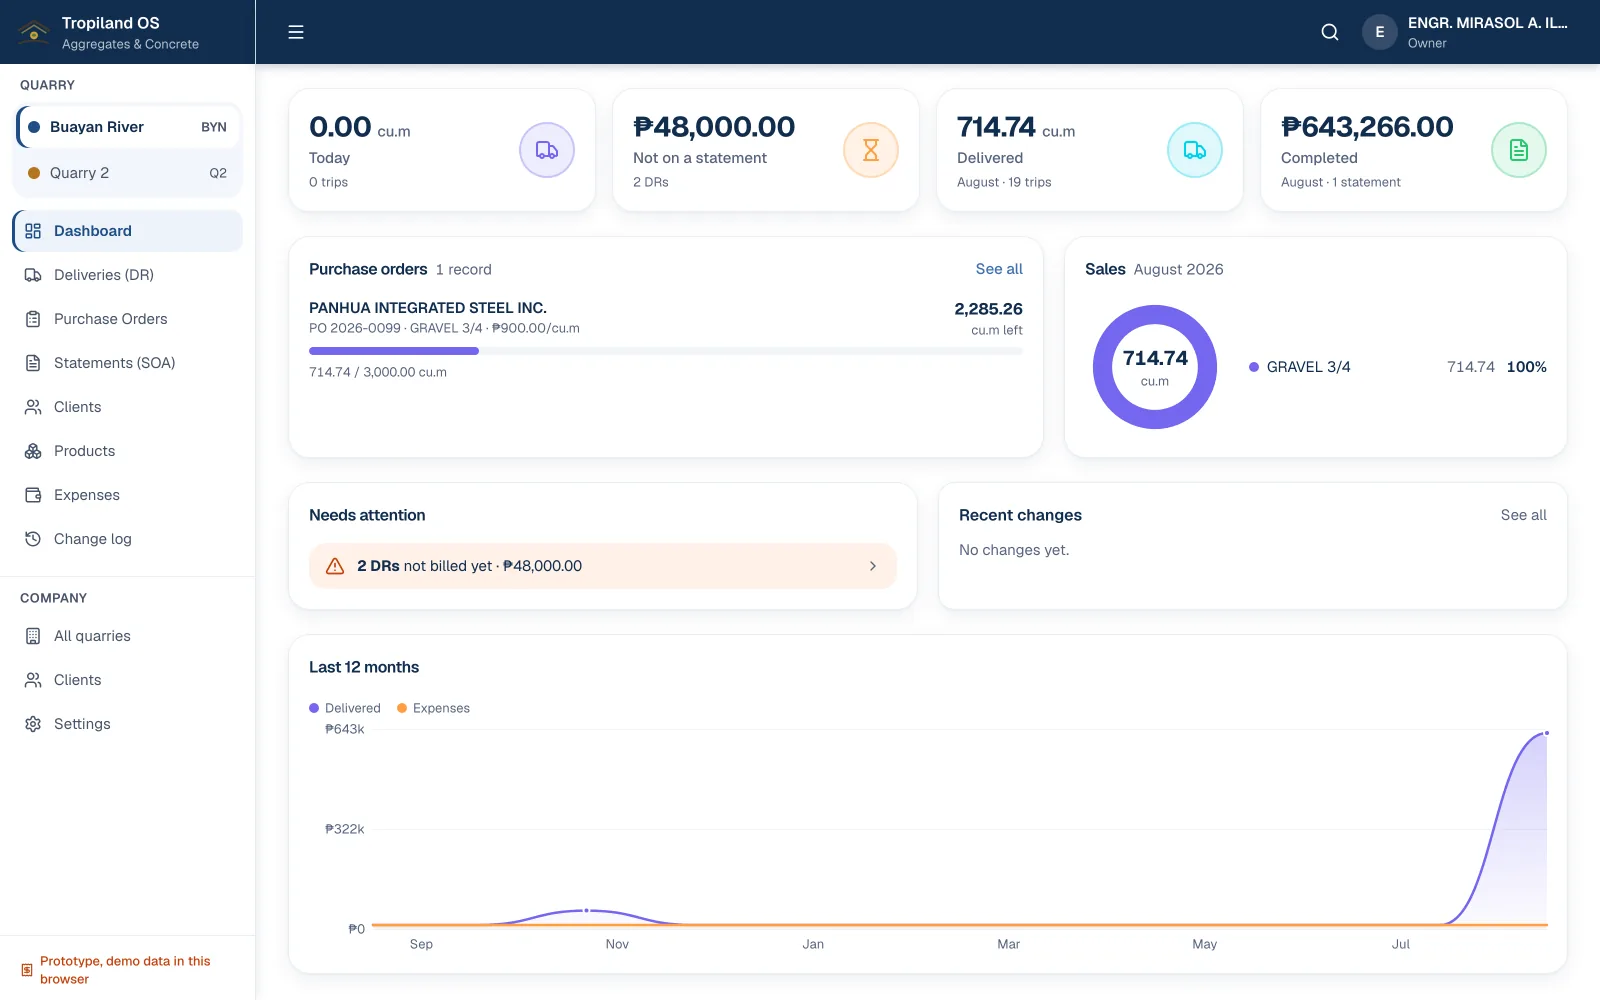
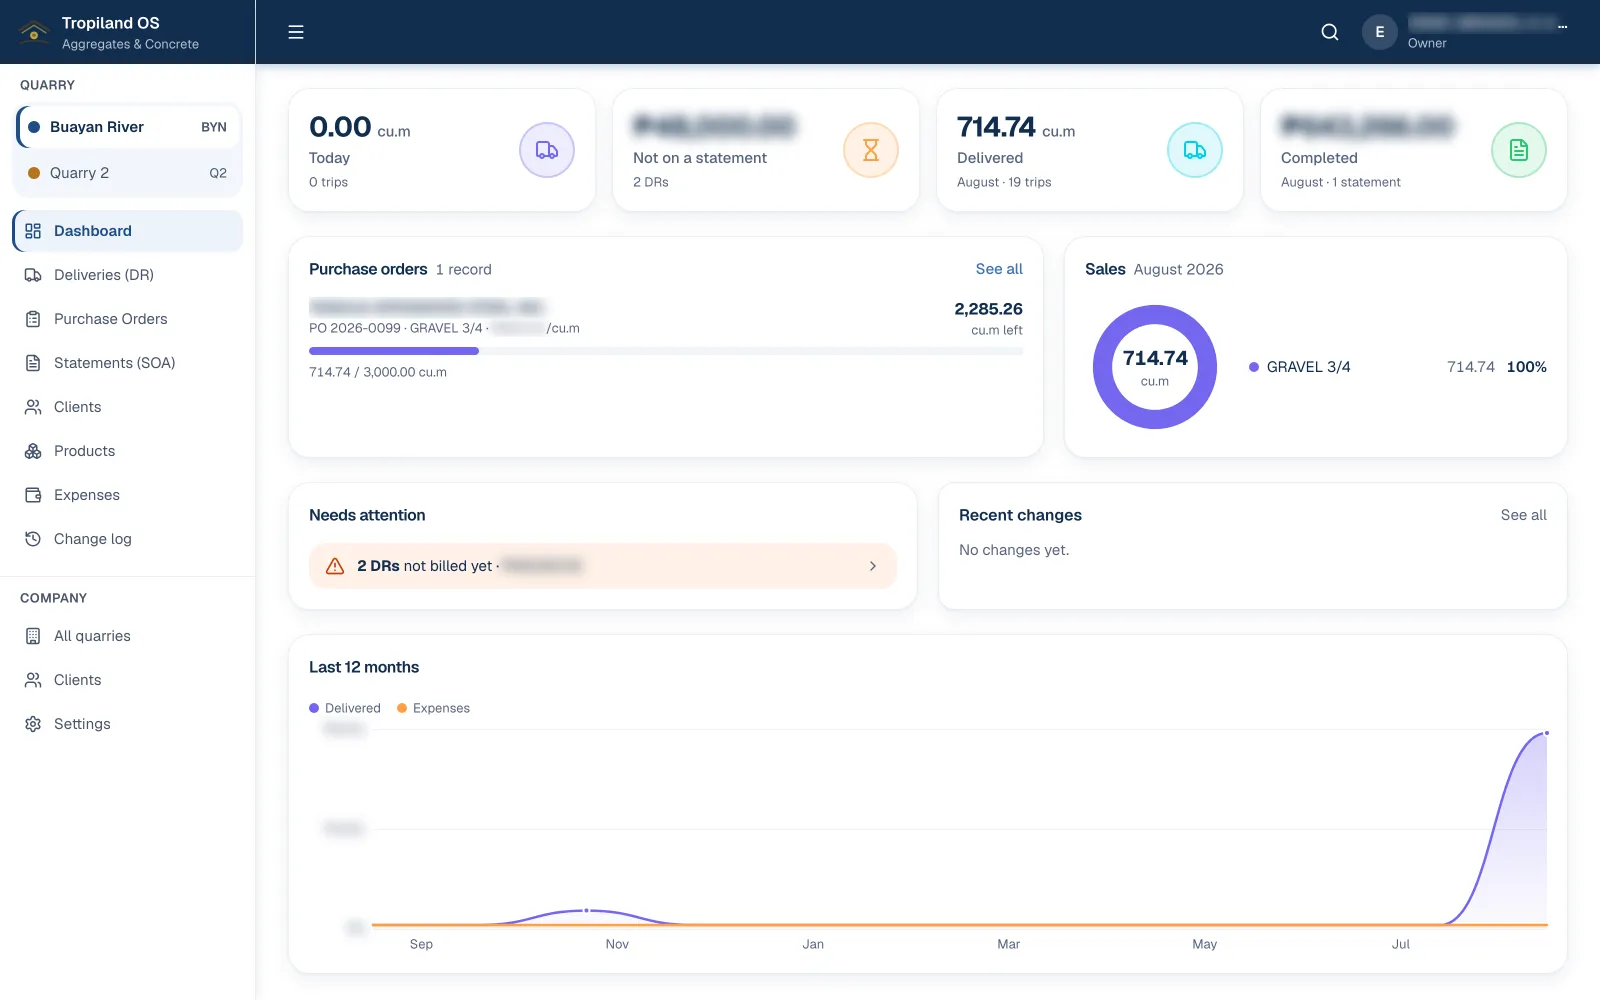
Tropiland OS: six fresh screens, client data blurred
Recaptured after the "Prototype, demo data in this browser" banner came
out of the app. The demo seed is the client's real records, so the
owner's name, client names and addresses, truck plates and every peso
amount are blurred in the page itself before the screenshot — including
the dashboard that was already published unblurred.

Dashboard, deliveries, statements, purchase orders, clients and products
sit in a two-up grid at full case width; each opens full size in the
lightbox as one set. Expenses left out (it renders an empty month).

Claude-Session: https://claude.ai/code/session_018c5y1xfzH2PhXBQtNGFDzz

diff --git a/index.html b/index.html
@@ -689,23 +689,110 @@
 
       <div class="case__media">
       <div class="gallery" data-gallery="tropiland" data-kind="desktop">
-      <figure class="window">
-        <div class="window__bar" aria-hidden="true">
-          <span class="window__dot"></span><span class="window__dot"></span><span class="window__dot"></span>
-          <span class="window__title">Tropiland OS</span>
-        </div>
-        <div class="window__body">
-          <button class="window__open" type="button"
-                  data-photo="assets/screenshots/tropiland/full/01_dashboard.webp"
-                  data-photo-set="tropiland"
-                  data-photo-title="Tropiland OS — quarry dashboard"
-                  data-photo-meta="Delivered volume, sales by product and the purchase order still running"
-                  aria-label="View the dashboard full size">
-            <img data-src="assets/screenshots/tropiland/01_dashboard.webp"
-                 alt="Tropiland OS quarry dashboard — delivered cubic metres, amount not yet on a statement, a purchase order progress bar, sales by product and a twelve-month chart">
-          </button>
-        </div>
-      </figure>
+      <div class="gallery__grid">
+        <figure class="window">
+          <div class="window__bar" aria-hidden="true">
+            <span class="window__dot"></span><span class="window__dot"></span><span class="window__dot"></span>
+            <span class="window__title">Tropiland OS · Dashboard</span>
+          </div>
+          <div class="window__body">
+            <button class="window__open" type="button"
+                    data-photo="assets/screenshots/tropiland/full/01_dashboard.webp"
+                    data-photo-set="tropiland"
+                    data-photo-title="Tropiland OS — quarry dashboard"
+                    data-photo-meta="Delivered volume, sales by product and the purchase order still running"
+                    aria-label="View quarry dashboard full size">
+              <img data-src="assets/screenshots/tropiland/01_dashboard.webp"
+                   alt="Tropiland OS quarry dashboard — delivered cubic metres, amount not yet on a statement, a purchase order progress bar, sales by product and a twelve-month chart">
+            </button>
+          </div>
+        </figure>
+        <figure class="window">
+          <div class="window__bar" aria-hidden="true">
+            <span class="window__dot"></span><span class="window__dot"></span><span class="window__dot"></span>
+            <span class="window__title">Tropiland OS · Deliveries</span>
+          </div>
+          <div class="window__body">
+            <button class="window__open" type="button"
+                    data-photo="assets/screenshots/tropiland/full/02_deliveries.webp"
+                    data-photo-set="tropiland"
+                    data-photo-title="Tropiland OS — delivery receipts"
+                    data-photo-meta="Every delivery receipt with its truck, product, quantity and amount"
+                    aria-label="View delivery receipts full size">
+              <img data-src="assets/screenshots/tropiland/02_deliveries.webp"
+                   alt="Tropiland OS delivery receipts table — date, DR number, client, truck plate, product, quantity and amount, with search and filters">
+            </button>
+          </div>
+        </figure>
+        <figure class="window">
+          <div class="window__bar" aria-hidden="true">
+            <span class="window__dot"></span><span class="window__dot"></span><span class="window__dot"></span>
+            <span class="window__title">Tropiland OS · Statements</span>
+          </div>
+          <div class="window__body">
+            <button class="window__open" type="button"
+                    data-photo="assets/screenshots/tropiland/full/03_statements.webp"
+                    data-photo-set="tropiland"
+                    data-photo-title="Tropiland OS — statements of account"
+                    data-photo-meta="Statements built from delivery receipts, in progress or completed"
+                    aria-label="View statements of account full size">
+              <img data-src="assets/screenshots/tropiland/03_statements.webp"
+                   alt="Tropiland OS statements of account list — client, purchase order, cubic metres, total and status">
+            </button>
+          </div>
+        </figure>
+        <figure class="window">
+          <div class="window__bar" aria-hidden="true">
+            <span class="window__dot"></span><span class="window__dot"></span><span class="window__dot"></span>
+            <span class="window__title">Tropiland OS · Purchase orders</span>
+          </div>
+          <div class="window__body">
+            <button class="window__open" type="button"
+                    data-photo="assets/screenshots/tropiland/full/04_purchase_orders.webp"
+                    data-photo-set="tropiland"
+                    data-photo-title="Tropiland OS — purchase orders"
+                    data-photo-meta="Ordered, delivered and remaining balance for each purchase order"
+                    aria-label="View purchase orders full size">
+              <img data-src="assets/screenshots/tropiland/04_purchase_orders.webp"
+                   alt="Tropiland OS purchase orders table — PO number, client, product, ordered, delivered and remaining balance">
+            </button>
+          </div>
+        </figure>
+        <figure class="window">
+          <div class="window__bar" aria-hidden="true">
+            <span class="window__dot"></span><span class="window__dot"></span><span class="window__dot"></span>
+            <span class="window__title">Tropiland OS · Clients</span>
+          </div>
+          <div class="window__body">
+            <button class="window__open" type="button"
+                    data-photo="assets/screenshots/tropiland/full/05_clients.webp"
+                    data-photo-set="tropiland"
+                    data-photo-title="Tropiland OS — clients"
+                    data-photo-meta="Each client with deliveries, volume, billed amount and last delivery"
+                    aria-label="View clients full size">
+              <img data-src="assets/screenshots/tropiland/05_clients.webp"
+                   alt="Tropiland OS clients table — deliveries, cubic metres delivered, billed amount and last delivery date">
+            </button>
+          </div>
+        </figure>
+        <figure class="window">
+          <div class="window__bar" aria-hidden="true">
+            <span class="window__dot"></span><span class="window__dot"></span><span class="window__dot"></span>
+            <span class="window__title">Tropiland OS · Products</span>
+          </div>
+          <div class="window__body">
+            <button class="window__open" type="button"
+                    data-photo="assets/screenshots/tropiland/full/06_products.webp"
+                    data-photo-set="tropiland"
+                    data-photo-title="Tropiland OS — products"
+                    data-photo-meta="Products with this month and all-time volume"
+                    aria-label="View products full size">
+              <img data-src="assets/screenshots/tropiland/06_products.webp"
+                   alt="Tropiland OS products list — gravel, sand, rivermix and DPWH Item 201 with volume and last delivered date">
+            </button>
+          </div>
+        </figure>
+      </div>
       <p class="gallery__caption">Next.js · TypeScript · 76 tests on the domain layer</p>
       </div>
       </div>

diff --git a/css/sections.css b/css/sections.css
@@ -982,6 +982,14 @@
 
 /* A desktop screenshot at the full 1200 would be 750px tall at 16:10. */
 .case--stacked .gallery[data-kind="desktop"] { max-width: 900px; }
+/* Several desktop screens: a two-up grid, full case width, so every screen is
+   visible at once and none hides behind a scroll. Each opens full size in the
+   lightbox as one set. */
+.gallery__grid { display: grid; gap: var(--sp-5); }
+.case--stacked .gallery[data-kind="desktop"]:has(.gallery__grid) { max-width: none; }
+@media (min-width: 700px) {
+  .gallery__grid { grid-template-columns: repeat(2, minmax(0, 1fr)); }
+}
 
 @media (min-width: 900px) {
   /* meta pinned right, on the same rows as the title and tagline */

diff --git a/tool/SCREENSHOTS.md b/tool/SCREENSHOTS.md
@@ -12,7 +12,7 @@ assets/screenshots/
 ├── heyjag_merchant/   01_dashboard.webp  02_menu.webp  03_financials.webp
 ├── heyjag_driver/     01_kyc.webp  02_active_delivery.webp  03_earnings.webp
 ├── heyjag_provider/   01_bookings.webp  02_workers.webp  03_team.webp
-├── tropiland/         01_dashboard.webp  +  full/01_dashboard.webp
+├── tropiland/         01_dashboard … 06_products.webp  +  full/
 ├── fuzion_plus/       01_dashboard.webp                    (none yet)
 └── farmfinds/         01_marketplace.webp  02_product.webp  03_cart.webp   (none yet)
 ```
@@ -128,6 +128,13 @@ demo data. It does have a login gate, so a headless run has to get past it:
 3. Same profile, `--window-size=1600,1000 --force-device-scale-factor=2` on
    the target route → a 3200×2000 capture, exactly the 16:10 `.window__body`
    wants.
+
+**Client data is blurred in the page before capture.** The demo seed is the
+client's real records, so the proxy injects a script that wraps the owner's
+name, client company names and addresses, truck plates and every peso amount
+in a `filter: blur(6px)` span (chart axis labels included). Six screens ship:
+dashboard, deliveries, statements, purchase orders, clients, products. Expenses
+was left out because it renders an empty month.
 
 **Not shipped, on purpose:** the statement-of-account and print views are the
 most impressive screens in that app, but the letterhead carries the client's
